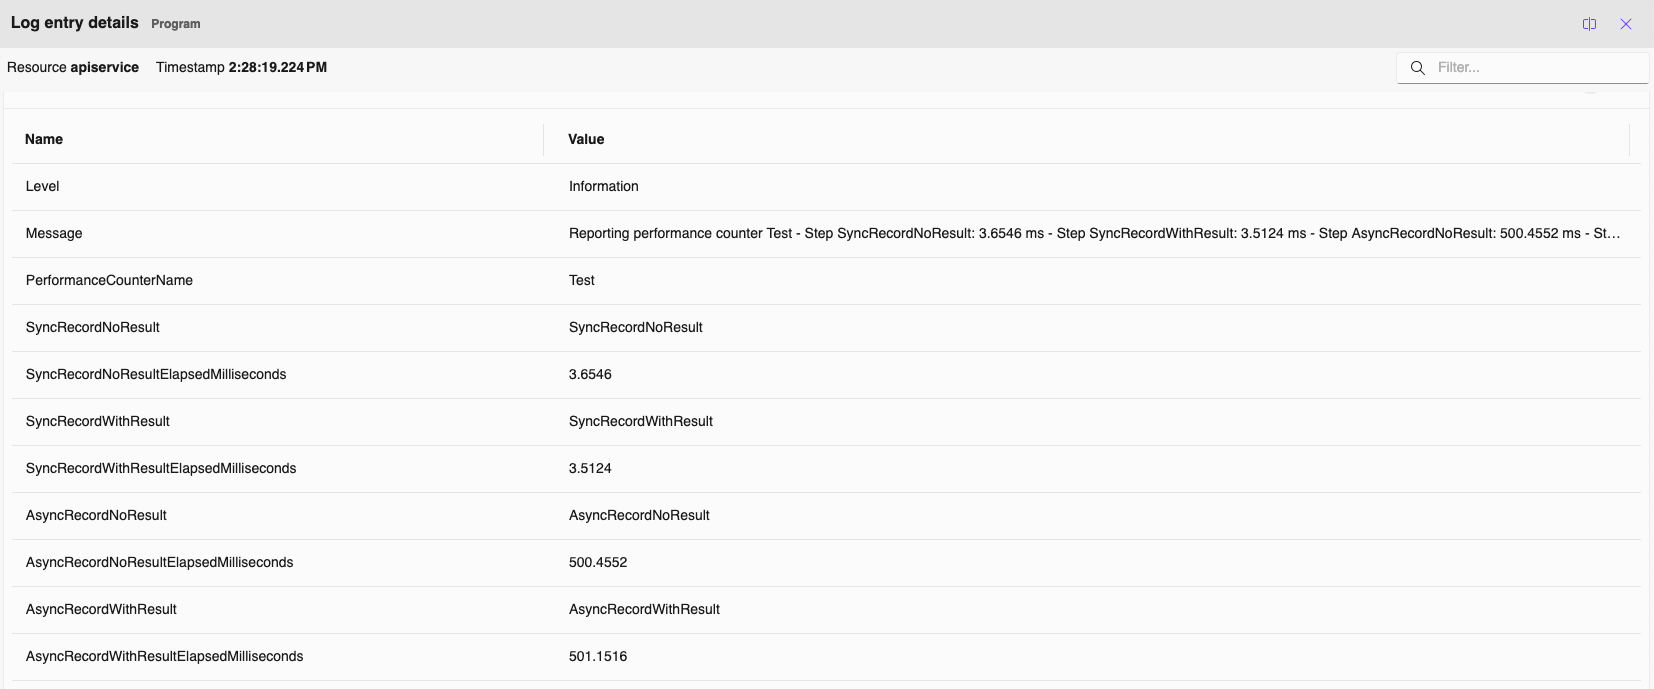
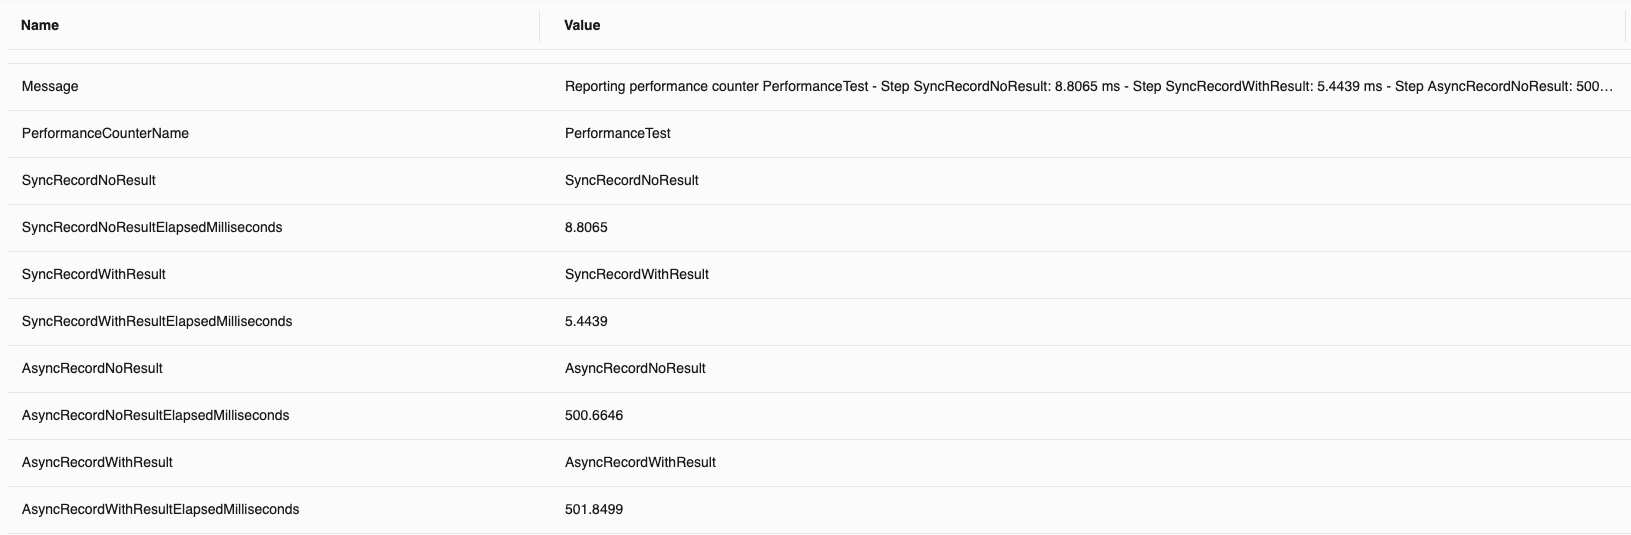
feat: Add feature switch options and an options model for easier factory creation
An options model has been added and the new preferred method for creation is Start(ILogger). This method accepts an optional options model.
One of the new options is IsEnabled, which can be used to toggle off and bypass the performance counter, allowing users to use feature switches to turn performance reporting on and off.

diff --git a/tests/Whojoo.PerformanceCounter.Tests/PerformanceCounterFactoryTests.cs b/tests/Whojoo.PerformanceCounter.Tests/PerformanceCounterFactoryTests.cs
@@ -1,0 +1,116 @@
+using FluentAssertions;
+
+using Microsoft.Extensions.Logging;
+
+using Xunit.Abstractions;
+
+namespace Whojoo.PerformanceCounter.Tests;
+
+public class PerformanceCounterFactoryTests(ITestOutputHelper testOutputHelper)
+{
+    private readonly ITestOutputHelper _testOutputHelper = testOutputHelper;
+
+    private readonly CustomTestLogger _logger =
+        CustomTestLogger.CreateLogger<PerformanceCounterFactoryTests>(testOutputHelper);
+
+    [Fact]
+    public void Start_WhenDefaultOptionsAreUsed_ShouldCreatePerformanceLogger()
+    {
+        // Arrange
+        // Act
+        var performanceCounter = PerformanceCounterFactory.Start(_logger);
+
+        //Assert
+        performanceCounter
+            .Should()
+            .BeOfType<Implementation.PerformanceCounter>();
+    }
+
+    [Theory]
+    [InlineData(LogLevel.Trace)]
+    [InlineData(LogLevel.Debug)]
+    [InlineData(LogLevel.Information)]
+    [InlineData(LogLevel.Warning)]
+    [InlineData(LogLevel.Error)]
+    [InlineData(LogLevel.Critical)]
+    public void Start_WhenLogLevelIsValid_ShouldCreatePerformanceCounter(LogLevel logLevel)
+    {
+        // Arrange
+        var options = new PerformanceCounterOptions { LogLevel = logLevel };
+
+        // Act
+        var performanceCounter = PerformanceCounterFactory.Start(_logger, options);
+
+        // Assert
+        performanceCounter
+            .Should()
+            .BeOfType<Implementation.PerformanceCounter>();
+    }
+
+    [Theory]
+    [InlineData(-1)]
+    [InlineData(10)]
+    public void Start_WhenLogLevelIsInvalid_ShouldThrowArgumentException(int logLevel)
+    {
+        // Arrange
+        var options = new PerformanceCounterOptions { LogLevel = (LogLevel)logLevel };
+
+        // Act
+        var act = () => PerformanceCounterFactory.Start(_logger, options);
+
+        // Assert
+        act
+            .Should()
+            .Throw<ArgumentException>();
+    }
+
+    [Fact]
+    public void Start_WhenLogLevelIsNone_ShouldCreateNoopPerformanceCounter()
+    {
+        // Arrange
+        var options = new PerformanceCounterOptions { LogLevel = LogLevel.None };
+
+        // Act
+        var performanceCounter = PerformanceCounterFactory.Start(_logger, options);
+
+        //Assert
+        performanceCounter
+            .Should()
+            .BeOfType<Implementation.NoopPerformanceCounter>();
+    }
+
+    [Theory]
+    [InlineData("")]
+    [InlineData("          ")]
+    [InlineData(null)]
+    public void Start_WhenPerformanceCounterNameIsInvalid_ShouldThrowArgumentException(string? performanceCounterName)
+    {
+        // Arrange
+#pragma warning disable CS8601 // Possible null reference assignment.
+        var options = new PerformanceCounterOptions { PerformanceCounterName = performanceCounterName };
+#pragma warning restore CS8601 // Possible null reference assignment.
+
+        // Act
+        var act = () => PerformanceCounterFactory.Start(_logger, options);
+
+        //Assert
+        act
+            .Should()
+            .Throw<ArgumentException>();
+    }
+
+    [Fact]
+    public void Start_WhenIsEnabledIsFalse_ShouldCreateNoopPerformanceCounter()
+    {
+        // Arrange
+        var options = new PerformanceCounterOptions { IsEnabled = false };
+
+        // Act
+        var performanceCounter = PerformanceCounterFactory.Start(_logger, options);
+
+        //Assert
+        performanceCounter
+            .Should()
+        .BeOfType<Implementation.NoopPerformanceCounter>();
+    }
+}

diff --git a/tests/Whojoo.PerformanceCounter.Tests/CustomTestLogger.cs b/tests/Whojoo.PerformanceCounter.Tests/CustomTestLogger.cs
@@ -1,0 +1,82 @@
+using System.Text;
+
+using Microsoft.Extensions.Logging;
+
+using Xunit.Abstractions;
+
+namespace Whojoo.PerformanceCounter.Tests;
+
+internal class CustomTestLogger(
+    ITestOutputHelper testOutputHelper,
+    LoggerExternalScopeProvider scopeProvider,
+    string categoryName)
+    : ILogger
+{
+    private readonly ITestOutputHelper _testOutputHelper = testOutputHelper;
+    private readonly LoggerExternalScopeProvider _scopeProvider = scopeProvider;
+    private readonly string _categoryName = categoryName;
+    private readonly StringBuilder _producedLogsBuilder = new();
+
+    public string ProducedLogs => _producedLogsBuilder.ToString();
+
+    public static CustomTestLogger CreateLogger(ITestOutputHelper testOutputHelper) =>
+        new(testOutputHelper, new LoggerExternalScopeProvider(), string.Empty);
+
+    public static CustomTestLogger CreateLogger<T>(ITestOutputHelper testOutputHelper) =>
+        new CustomTestLogger<T>(testOutputHelper, new LoggerExternalScopeProvider());
+
+    public void Log<TState>(
+        LogLevel logLevel,
+        EventId eventId,
+        TState state,
+        Exception? exception,
+        Func<TState, Exception?, string> formatter)
+    {
+        var logBuilder = new StringBuilder()
+            .Append(GetLogLevelString(logLevel))
+            .Append(" [")
+            .Append(_categoryName)
+            .Append("] ")
+            .Append(formatter(state, exception));
+
+        if (exception is not null)
+        {
+            logBuilder
+                .Append('\n')
+                .Append(exception);
+        }
+
+        _scopeProvider.ForEachScope(
+            (scope, stateLogBuilder) =>
+            {
+                stateLogBuilder.Append("\n => ");
+                stateLogBuilder.Append(scope);
+            },
+            logBuilder);
+
+        _testOutputHelper.WriteLine(logBuilder.ToString());
+    }
+
+    public bool IsEnabled(LogLevel logLevel) => logLevel is not LogLevel.None;
+
+    public IDisposable? BeginScope<TState>(TState state) where TState : notnull => _scopeProvider.Push(state);
+
+    private static string GetLogLevelString(LogLevel logLevel)
+    {
+        return logLevel switch
+        {
+            LogLevel.Trace => "trce",
+            LogLevel.Debug => "dbug",
+            LogLevel.Information => "info",
+            LogLevel.Warning => "warn",
+            LogLevel.Error => "fail",
+            LogLevel.Critical => "crit",
+            _ => throw new ArgumentOutOfRangeException(nameof(logLevel))
+        };
+    }
+}
+
+internal class CustomTestLogger<T>(ITestOutputHelper testOutputHelper, LoggerExternalScopeProvider scopeProvider)
+    : CustomTestLogger(testOutputHelper, scopeProvider, typeof(T).FullName!), ILogger<T>
+{
+}

diff --git a/src/Whojoo.PerformanceCounter/PerformanceCounterFactory.cs b/src/Whojoo.PerformanceCounter/PerformanceCounterFactory.cs
@@ -1,15 +1,38 @@
 using Microsoft.Extensions.Logging;
 
+using Whojoo.PerformanceCounter.Implementation;
+
 namespace Whojoo.PerformanceCounter;
 
 public static class PerformanceCounterFactory
 {
+    /// <summary>
+    /// Create and start a performance counter. Options are optional and default options will be used if not provided.
+    /// </summary>
+    /// <param name="logger">Logger used for reporting</param>
+    /// <param name="performanceCounterOptions">Options used to create the counter, default is used when not provided</param>
+    /// <returns>A new and running performance counter</returns>
+    public static IPerformanceCounter Start(ILogger logger, PerformanceCounterOptions? performanceCounterOptions = null)
+    {
+        var options = performanceCounterOptions ?? new PerformanceCounterOptions();
+
+        options.ThrowIfInvalid();
+
+        if (!options.IsEnabled || options.LogLevel is LogLevel.None)
+        {
+            return new NoopPerformanceCounter();
+        }
+
+        return new Implementation.PerformanceCounter(logger, options.PerformanceCounterName, options.LogLevel);
+    }
+
     /// <summary>
     /// Create and start a default performance counter. It wil report its results as LogLevel Information.
     /// </summary>
     /// <param name="logger">Logger used for reporting</param>
     /// <param name="performanceCounterName">Name used as the header in the report</param>
     /// <returns>A new and running performance counter</returns>
+    [Obsolete("This method is obsolete and will be removed in v2, use Start instead.")]
     public static IPerformanceCounter StartDefault(ILogger logger, string performanceCounterName)
     {
         return new Implementation.PerformanceCounter(logger, performanceCounterName);
@@ -22,6 +45,7 @@ public static class PerformanceCounterFactory
     /// <param name="logger">Logger used for reporting</param>
     /// <param name="performanceCounterName">Name used as the header in the report</param>
     /// <returns>A new and running performance counter</returns>
+    [Obsolete("This method is obsolete and will be removed in v2, use Start instead.")]
     public static IPerformanceCounter StartWithLogLevel(LogLevel logLevel, ILogger logger, string performanceCounterName)
     {
         return new Implementation.PerformanceCounter(logger, performanceCounterName, logLevel);

diff --git a/src/Whojoo.PerformanceCounter/Implementation/PerformanceCounterOptionsExtensions.cs b/src/Whojoo.PerformanceCounter/Implementation/PerformanceCounterOptionsExtensions.cs
@@ -1,0 +1,30 @@
+using Microsoft.Extensions.Logging;
+
+namespace Whojoo.PerformanceCounter.Implementation;
+
+internal static class PerformanceCounterOptionsExtensions
+{
+    public static void ThrowIfInvalid(this PerformanceCounterOptions? performanceCounterOptions)
+    {
+#pragma warning disable CA2208
+        if (performanceCounterOptions is null)
+        {
+            throw new ArgumentException("Options cannot be null", nameof(PerformanceCounterOptions));
+        }
+
+        if (string.IsNullOrWhiteSpace(performanceCounterOptions.PerformanceCounterName))
+        {
+            throw new ArgumentException(
+                "Performance counter name cannot be null or whitespace",
+                nameof(PerformanceCounterOptions.PerformanceCounterName));
+        }
+
+        if (performanceCounterOptions.LogLevel is < LogLevel.Trace or > LogLevel.None)
+        {
+            throw new ArgumentException(
+                "LogLevel is out of available range",
+                nameof(PerformanceCounterOptions.LogLevel));
+        }
+#pragma warning restore CA2208
+    }
+}

diff --git a/src/Whojoo.PerformanceCounter/PerformanceCounterOptions.cs b/src/Whojoo.PerformanceCounter/PerformanceCounterOptions.cs
@@ -1,0 +1,27 @@
+using Microsoft.Extensions.Logging;
+
+namespace Whojoo.PerformanceCounter;
+
+public sealed class PerformanceCounterOptions
+{
+    /// <summary>
+    /// Set the LogLevel for reporting.
+    ///
+    /// Default: Information
+    /// </summary>
+    public LogLevel LogLevel { get; set; } = LogLevel.Information;
+
+    /// <summary>
+    /// Enable or disable the performance counter, useful when used in combination with a feature switch.
+    ///
+    /// Default: true
+    /// </summary>
+    public bool IsEnabled { get; set; } = true;
+
+    /// <summary>
+    /// Set the name used for the performance counter's reporting.
+    ///
+    /// Default: PerformanceTest
+    /// </summary>
+    public string PerformanceCounterName { get; set; } = "PerformanceTest";
+}

diff --git a/src/Whojoo.PerformanceCounter/Implementation/NoopPerformanceCounter.cs b/src/Whojoo.PerformanceCounter/Implementation/NoopPerformanceCounter.cs
@@ -1,0 +1,24 @@
+namespace Whojoo.PerformanceCounter.Implementation;
+
+internal sealed class NoopPerformanceCounter : IPerformanceCounter
+{
+    public void RecordStep(string stepName, Action step) => step();
+
+    public T RecordStep<T>(string stepName, Func<T> step) => step();
+
+    public async Task RecordStepAsync(string stepName, Func<Task> step) => await step();
+
+    public async Task<T> RecordStepAsync<T>(string stepName, Func<Task<T>> step) => await step();
+
+    public void StopAndReport()
+    {
+    }
+
+    public void Report()
+    {
+    }
+
+    public void Restart(string? newPerformanceCounterName = null)
+    {
+    }
+}

diff --git a/samples/aspire/aspire.ApiService/Program.cs b/samples/aspire/aspire.ApiService/Program.cs
@@ -33,7 +33,7 @@ app.MapGet("/weatherforecast", () =>
 
 app.MapGet("/test", async (ILogger<Program> logger) =>
 {
-    var performanceCounter = PerformanceCounterFactory.StartDefault(logger, "Test");
+    var performanceCounter = PerformanceCounterFactory.Start(logger);
 
     performanceCounter.RecordStep("SyncRecordNoResult", () =>
     {

diff --git a/samples/Whojoo.PerformanceCounter.Sample1.Api/Program.cs b/samples/Whojoo.PerformanceCounter.Sample1.Api/Program.cs
@@ -20,7 +20,7 @@ app.UseHttpsRedirection();
 
 app.MapGet("/test", async (ILogger<Program> logger) =>
 {
-    var performanceCounter = PerformanceCounterFactory.StartDefault(logger, "Test");
+    var performanceCounter = PerformanceCounterFactory.Start(logger);
 
     performanceCounter.RecordStep("SyncRecordNoResult", () =>
     {

diff --git a/src/Whojoo.PerformanceCounter/AssemblyInfo.cs b/src/Whojoo.PerformanceCounter/AssemblyInfo.cs
@@ -1,0 +1,3 @@
+using System.Runtime.CompilerServices;
+
+[assembly: InternalsVisibleTo("Whojoo.PerformanceCounter.Tests")]

diff --git a/README.md b/README.md
@@ -18,7 +18,7 @@ An example usage could be like the following, taking from one of the samples:
 app.MapGet("/test", async (ILogger<Program> logger) =>
 {
     // Create the counter, this automatically starts the counter and will log to Information
-    var performanceCounter = PerformanceCounterFactory.StartDefault(logger, "Test");
+    var performanceCounter = PerformanceCounterFactory.Start(logger);
 
     // Record without returning a result
     performanceCounter.RecordStep("SyncRecordNoResult", () =>
@@ -66,12 +66,12 @@ app.MapGet("/test", async (ILogger<Program> logger) =>
 This produces the following result in the Console:
 ```
 info: Program[0]
-      Reporting performance counter Test
-      - Step SyncRecordNoResult: 6.6266 ms
-      - Step SyncRecordWithResult: 5.3808 ms
-      - Step AsyncRecordNoResult: 502.1223 ms
-      - Step AsyncRecordWithResult: 501.6494 ms
-      - Total elapsed: 1019,2913 ms
+      Reporting performance counter PerformanceTest
+      - Step SyncRecordNoResult: 8.8065 ms
+      - Step SyncRecordWithResult: 5.4439 ms
+      - Step AsyncRecordNoResult: 500.6646 ms
+      - Step AsyncRecordWithResult: 501.8499 ms
+      - Total elapsed: 1016,7649 ms
 ```
 
 And the following structured logging:
